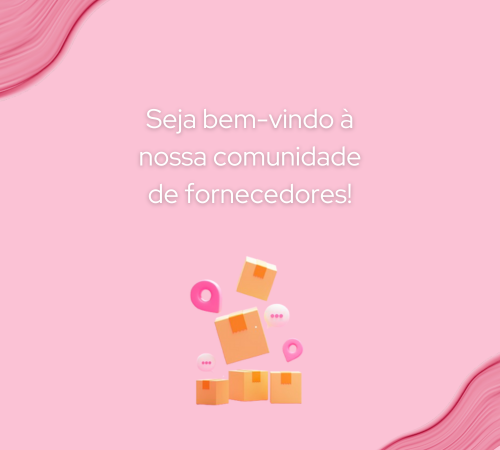
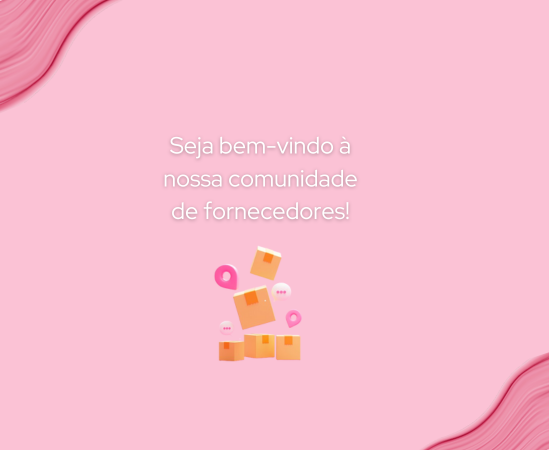
finalizando pag do adm/fornecedor

diff --git a/pagAdm.html b/pagAdm.html
@@ -58,22 +58,60 @@
         <section class="imgParaadm">
             <div class="imagemadm"></div>
         </section>
-        <section class="produtosCadastrados">
-            <div>
-                <div>
-                    <div class="produtos"><img src="imagens/produtos/BaseBocaRosa01_semFundo.png" alt=""></div>
-                    <div class="produtos"><img src="imagens/produtos/BaseBocaRosa01_semFundo.png" alt=""></div>
+        <section class="produtos_para_vender">
+            <div class="cards_Produtos_para_vender">
+                <!--CARD DO PRODUTO A VENDA-->
+                <div class="card_produto">
+                    <div class="dados_do_produto">
+                        <p>Base da Boca Rosa</p>
+                        <img src="imagens/produtos/BaseBocaRosa01.png" alt="">
+                        <h4>Quantidade no Estoque: 300 qtds</h4>
+                    </div>
                 </div>
-                <div>
-                    <div class="produtos"><img src="imagens/produtos/BaseBocaRosa01_semFundo.png" alt=""></div>
-                    <div class="produtos"><img src="imagens/produtos/BaseBocaRosa01_semFundo.png" alt=""></div>
+                <!--CARD DO PRODUTO A VENDA-->
+                <!--CARD DO PRODUTO A VENDA-->
+                <div class="card_produto">
+                    <div class="dados_do_produto">
+                        <p>Base da Boca Rosa</p>
+                        <img src="imagens/produtos/BaseBocaRosa01.png" alt="">
+                        <h4>Quantidade no Estoque: 300 qtds</h4>
+                    </div>
                 </div>
-                <div>
-                    <div class="produtos"><img src="imagens/produtos/BaseBocaRosa01_semFundo.png" alt=""></div>
-                    <div class="produtos"><img src="imagens/produtos/BaseBocaRosa01_semFundo.png" alt=""></div>
+                <!--CARD DO PRODUTO A VENDA-->
+                <div class="card_produto">
+                    <div class="dados_do_produto">
+                        <p>Base da Boca Rosa</p>
+                        <img src="imagens/produtos/BaseBocaRosa01.png" alt="">
+                        <h4>Quantidade no Estoque: 300 qtds</h4>
+                    </div>
+                </div>
+                <!--CARD DO PRODUTO A VENDA-->
+                <div class="card_produto">
+                    <div class="dados_do_produto">
+                        <p>Base da Boca Rosa</p>
+                        <img src="imagens/produtos/BaseBocaRosa01.png" alt="">
+                        <h4>Quantidade no Estoque: 300 qtds</h4>
+                    </div>
+                </div>
+                <!--CARD DO PRODUTO A VENDA-->
+                <div class="card_produto">
+                    <div class="dados_do_produto">
+                        <p>Base da Boca Rosa</p>
+                        <img src="imagens/produtos/BaseBocaRosa01.png" alt="">
+                        <h4>Quantidade no Estoque: 300 qtds</h4>
+                    </div>
+                </div>
+                <!--CARD DO PRODUTO A VENDA-->
+                <div class="card_produto">
+                    <div class="dados_do_produto">
+                        <p>Base da Boca Rosa</p>
+                        <img src="imagens/produtos/BaseBocaRosa01.png" alt="">
+                        <h4>Quantidade no Estoque: 300 qtds</h4>
+                    </div>
                 </div>
             </div>
         </section>
+
     </main>
     <footer>
         <img src="imagens/Pagina_principal/BlushGlamour-footer.png" alt="">

diff --git a/pagAdm.css b/pagAdm.css
@@ -143,7 +143,6 @@ header {
     color: #E55E82;
 }
 
-
 footer{
     margin: auto;
     display: flex;
@@ -176,6 +175,7 @@ footer > img{
 
 
 .imagemadm{
+    margin: auto;
     background-image: url('imagens/mensagemFornecedor01.png');
     max-width: 1440px;
     height: 450px;
@@ -208,11 +208,123 @@ footer > img{
         background-image: url('imagens/imagemPequenaCelular.png');
     }
 }
+@media only screen and (max-width: 420px){ 
+    .imagemadm{
+        background-image: url('imagens/imagemPequenaFornecedor04.png');
+    }
+}
 
 /*Aqui irei modelar a parte do encontrar por categoria*/
 /*container pai*/
 
-.produtosCadastrados{
+.categoria {
+    max-width: 100%;
+    width: 1440px;
+    height: 350px;
+}
+
+.cards_Produtos_para_vender {
+    max-width: 1300px;
+    max-height: 11300px;
+    margin: 42px 70px 42px 70px;
     display: flex;
+    flex-wrap: wrap;
     justify-content: center;
+}
+
+/*Card do produto*/
+.card_produto {
+    height: 520px;
+    width: 400px;
+    display: flex;
+    flex-direction: column;
+    justify-content: space-around;
+    align-items: center;
+    box-shadow: 0 4px 8px rgba(0, 0, 0, 0.1); 
+    transition: box-shadow 0.3s ease;
+    margin: 10px;
+    border: 1px solid rgba(174, 174, 174, 0.521);
+    border-radius: 10px;
+
+}
+
+/*container filho de card do produto que guarda img, nome e valor*/
+.dados_do_produto {
+    display: flex;
+    flex-direction: column;
+    justify-content: space-around;
+    align-items: center;
+}
+.dados_do_produto > img {
+    height: 250px;
+    width: 250px;
+}
+.dados_do_produto p {
+    font-size: 25px;
+    color: #E55E82;
+}
+
+/*container filho de card do produto que guarda forms de quantidade, botao carrinho e botao comprar*/
+.interaçoes_card {
+    display: flex;
+    flex-direction: column;
+
+}
+
+.interaçao_carrinho {
+    display: flex;
+    justify-content: space-around;
+}
+.interaçao_carrinho > input {
+    height: 50px;
+    width: 150px;
+    border: 1px solid #AEAEAE;
+    border-radius: 10px;
+    text-align: center;
+    margin-right: 5px;
+
+}
+.interaçao_carrinho > button {
+    height: 50px;
+    width: 150px;
+    border-radius: 10px;
+    background-color: #F9A8C8;
+    border: none;
+}
+.interaçao_carrinho > button {
+    color: #E55E82;
+    font-size: 30px;
+    border: none;
+}
+
+.produtos_para_vender{
+    max-width: 1440px;
+    margin: auto;
+}
+
+
+.botao_comprar{
+    display: flex;
+    text-align: center;
+    height: 50px;
+    width: 150px;
+    border-radius: 10px;
+    background-color: #F9A8C8;
+    border: none;
+}
+
+.botao_comprar > input{
+    text-decoration: none;
+}
+
+.dados_do_produto > h4{
+    font-family: sans-serif;
+    font-size: 17px;
+}
+
+
+@media only screen and (max-width: 420px){ 
+    .dados_do_produto > h4{
+        font-size: 13px;
+    }
 }
